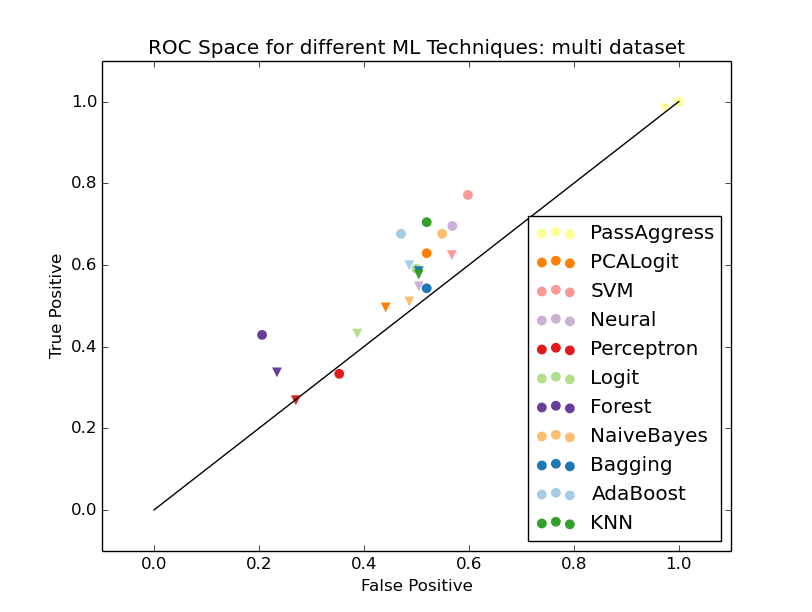
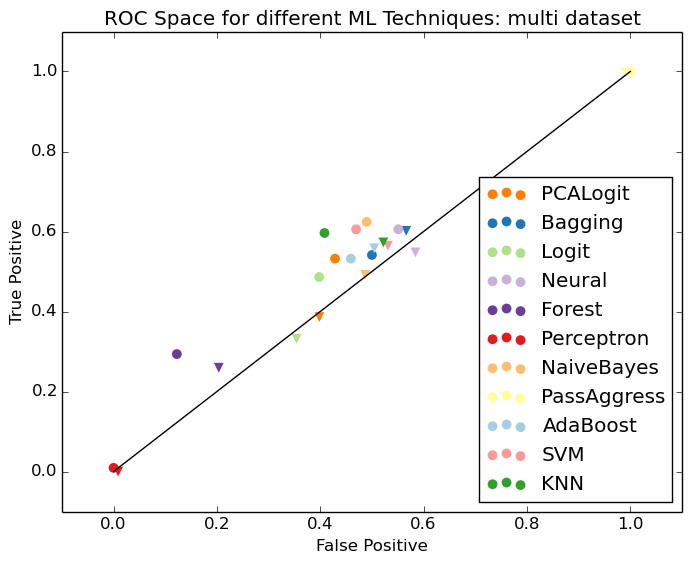
updated readme and tightened plots

diff --git a/cgen_project.py b/cgen_project.py
@@ -78,6 +78,7 @@ def plotTechniques(data, parameters):
     plt.xticks(index+bar_width*2.5, labels)
     plt.legend(loc=4)
     plt.savefig('mean_score_technique.png', bbox_inches='tight')
+    plt.close()
     
 def plotLevels(data):
     '''
@@ -118,6 +119,7 @@ def plotLevels(data):
     plt.xticks(index+bar_width*2.5, interest_levels)
     plt.legend(loc=4)
     plt.savefig('median_score_taxa.png', bbox_inches='tight')
+    plt.close()
   
 def plotByDS(parameters, fig_num, data, best_params, ds, predict_sets):
     '''
@@ -139,6 +141,7 @@ def plotByDS(parameters, fig_num, data, best_params, ds, predict_sets):
     plt.ylabel('True Positive')
     plt.title('ROC Space for different ML Techniques: ' + ds + ' dataset')
     plt.savefig('best_level_' + ds + '.png', bbox_inches='tight')
+    plt.close()
     
     
 def plotCrossPredict(parameters, data, best_params, ds):
@@ -172,6 +175,7 @@ def plotCrossPredict(parameters, data, best_params, ds):
     plt.xticks(index+bar_width*2.5, labels)
     plt.legend(loc=4)
     plt.savefig('cross_predict_' + ds + '.png', bbox_inches='tight')
+    plt.close()
     
 def plotBest(parameters, fig_num, data, best_params, datasets, predict_sets):
     '''
@@ -197,6 +201,7 @@ def plotBest(parameters, fig_num, data, best_params, datasets, predict_sets):
     plt.ylabel('True Positive')
     plt.title('ROC Space for Best Technique By Dataset')
     plt.savefig('best_level_all.png', bbox_inches='tight')
+    plt.close()
     
 def getBestLevels(data, num_best):
     '''
@@ -383,34 +388,33 @@ parameters = {'Forest': forest, 'AdaBoost': adaboost, 'Logit': logit, 'KNN': knn
 data = loadFittedData((1,5))
 
 #Plots w/o data
-#plotTechniques(data, parameters)
-#plotLevels(data)
+plotTechniques(data, parameters)
+plotLevels(data)
 
-#Getting data for best levels and more plots
-
+#Getting data for best levels and plots of predictions on test sets
 best_levels = getBestLevels(data, 5)
-#best_data = getBestFitData(best_levels, random_seed, False, False)
 
-#count = 1
-#for ds in best_levels:
-    #plotByDS(parameters, count, best_data[ds], data[ds+'.'+best_levels[ds][0]], ds, {'valid': 'o', 'test': 'v'})
-    #count = count + 1
-#best_params = {}
-#best_tech = {}
-#for ds in best_levels:
-    #best_params[ds] = data[ds+'.'+best_levels[ds][0]]
-    #best_tech[ds] = getBestTechnique(best_params[ds])
-#plotBest(parameters, 1, best_data, best_params, best_tech, {'valid': 'o', 'test': 'v'})
+best_data = getBestFitData(best_levels, random_seed, False, False)
+count = 1
+for ds in best_levels:
+    plotByDS(parameters, count, best_data[ds], data[ds+'.'+best_levels[ds][0]], ds, {'valid': 'o', 'test': 'v'})
+    count = count + 1
+best_params = {}
+best_tech = {}
+for ds in best_levels:
+    best_params[ds] = data[ds+'.'+best_levels[ds][0]]
+    best_tech[ds] = getBestTechnique(best_params[ds])
+plotBest(parameters, 1, best_data, best_params, best_tech, {'valid': 'o', 'test': 'v'})
 
 #Use model trained on one dataset to predict test data on other datasets
-#cross_data = getCommonFeatureData(random_seed)
-#cross_params = {'perio': 'perio.phylum;order', 'naive': 'naive.order;phylum', 'catalog': 'catalog.phylum;order', 'richness': 'richness.order;phylum'}
-#for dset in cross_params:
-    #plotCrossPredict(parameters, cross_data, data[cross_params[dset]], dset)
+cross_data = getCommonFeatureData(random_seed)
+cross_params = {'perio': 'perio.phylum;order', 'naive': 'naive.order;phylum', 'catalog': 'catalog.phylum;order', 'richness': 'richness.order;phylum'}
+for dset in cross_params:
+    plotCrossPredict(parameters, cross_data, data[cross_params[dset]], dset)
 
 #Getting best forest and fitting to get feature importances
-#best_forests = getBestForest(data)
-#best_forest_data = getBestFitData(best_forests, random_seed, False, False)
-#getBestForestFeatures(parameters, random_seed, data, best_forests, best_forest_data)
+best_forests = getBestForest(data)
+best_forest_data = getBestFitData(best_forests, random_seed, False, False)
+getBestForestFeatures(parameters, random_seed, data, best_forests, best_forest_data)
 
 

diff --git a/README.md b/README.md
@@ -63,6 +63,14 @@ best_level_perio.png - This plot is created by the cgen_project.py file. It plot
 
 best_level_richness.png - This plot is created by the cgen_project.py file. It plots the ROC space for validation and test data for the best parameters for each model for the best levels of the richness dataset.
 
+cross_predict_catalog.png - This plot is created by the cgen_project.py file. It plots the sensitivity plus specificity score for each technique for the test set of each dataset, with the models trained on the Catalog dataset.
+
+cross_predict_naive.png - It plots the sensitivity plus specificity score for each technique for the test set of each dataset, with the models trained on the Naive dataset.
+
+cross_predict_perio.png - It plots the sensitivity plus specificity score for each technique for the test set of each dataset, with the models trained on the Perio dataset.
+
+cross_predict_richness.png - It plots the sensitivity plus specificity score for each technique for the test set of each dataset, with the models trained on the Richness dataset.
+
 feature_importances.txt - This file is created by the cgen_project.py file. It gives the feature importances in descending order for the best forest found for each dataset.
 
 mean_score_technique.png - This file is created by the cgen_project.py file. It plots the average score for each model for each of the datasets.
